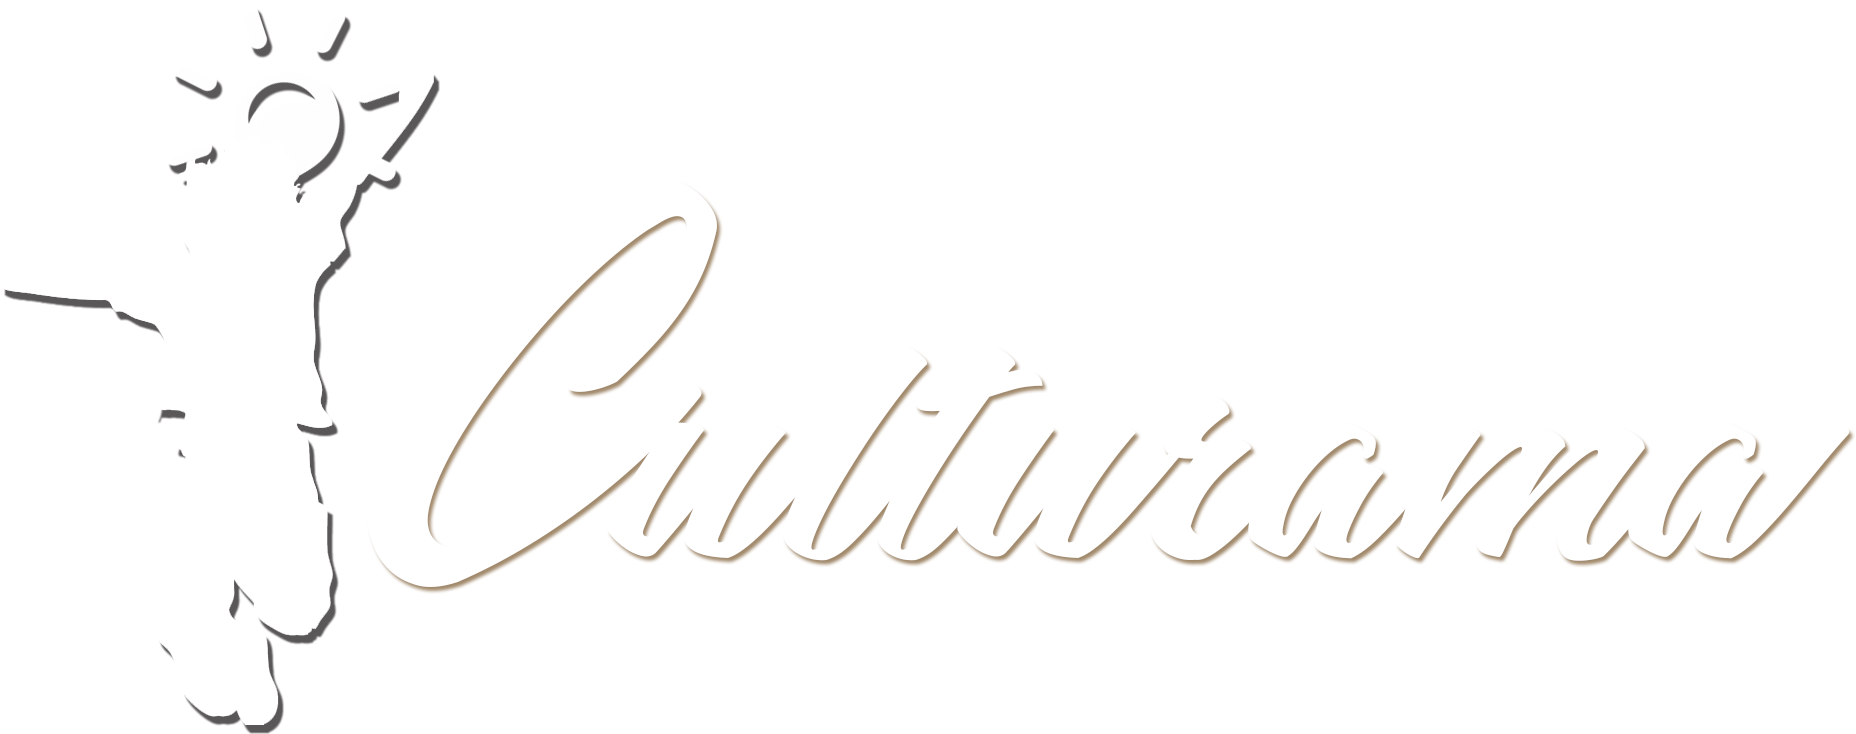
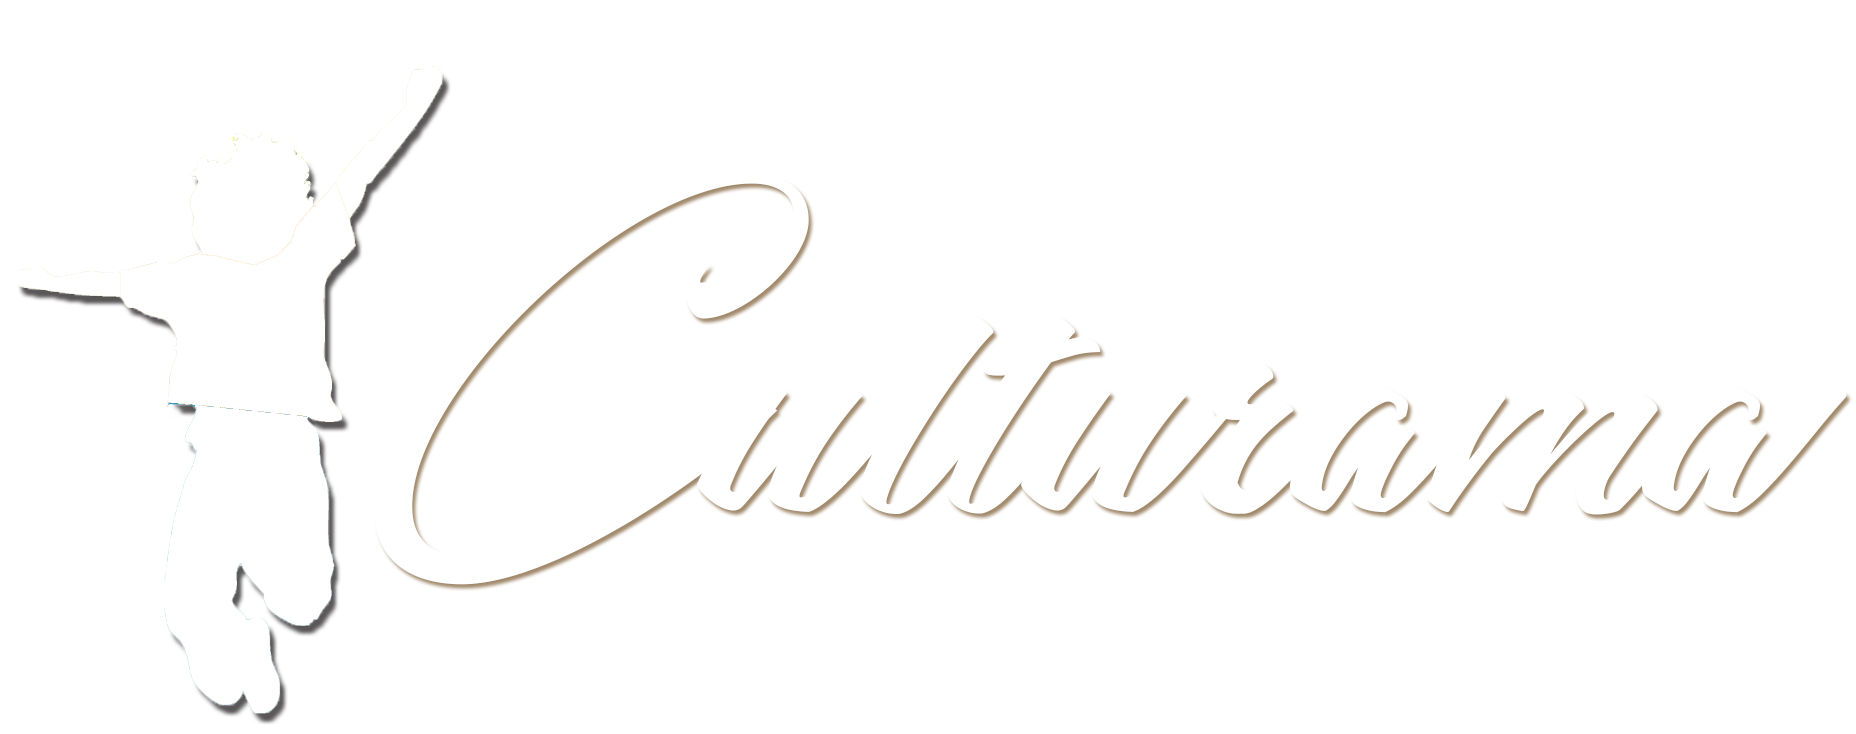
HTML changes Niko

diff --git a/pages/classRegistrationForApproval.html b/pages/classRegistrationForApproval.html
@@ -1,5 +1,5 @@
             <div>
-                <h4>Student Registration to Class for Approval</h4>
+                <h4 style="text-align: center;">Student Registration to Class for Approval</h4>
                 <table id="tblEnrollmentForApproval" class="table table1 table-hover" style="background-color: #ffffff">
                     <thead>
                     <tr>
@@ -17,8 +17,8 @@
                             <tr>
                                 <td><?= $row['class_name'] ?></td>
                                 <td><?= $row['student_name'] ?></td>
-                                <td><button type="button" onclick="grantRegistration(<?= $row['id'] ?>, <?= $row['student_id'] ?>, <?= $row['course_id'] ?>)">Accept</button></td>
-                                <td><button type="button" onclick="denyRegistration(<?= $row['id'] ?>)">Deny</button></td>
+                                <td><button class="btn" type="button" onclick="grantRegistration(<?= $row['id'] ?>, <?= $row['student_id'] ?>, <?= $row['course_id'] ?>)">Accept</button></td>
+                                <td><button class="btn" type="button" onclick="denyRegistration(<?= $row['id'] ?>)">Deny</button></td>
                             </tr>
                         <?php
                                 }

diff --git a/pages/studentSearchClasses.html b/pages/studentSearchClasses.html
@@ -62,7 +62,7 @@
                         <p style="margin-bottom: 0px;"><span id="spnStatus"></span></p>
                     </div>
 
-                    <h1 class="mt-5">Search Classes</h1>
+                    <h1 class="col-md-12" style="text-align: center;">Search Classes</h1>
 
                     <form id="formClassSearch" action="studentSearchClassesFunction.php" method="post">
                         <div class="input-group">
@@ -97,7 +97,7 @@
                                     <td><?= $row['class_name'] ?></td>
                                     <td><?= $row['class_description'] ?></td>
                                     <td><?= $row['instructor'] ?></td>
-                                    <td><button type="button" onclick="registerCourse(<?= $row['id'] ?>, 
+                                    <td><button class="btn" type="button" onclick="registerCourse(<?= $row['id'] ?>, 
                                     <?= $_SESSION['id'] ?> )">Enroll</button></td>
                                 </tr>
                             <?php

diff --git a/pages/Teacher_Topic.html b/pages/Teacher_Topic.html
@@ -74,8 +74,8 @@
                 <div class="row sm-flex-center top-space top-space1" style="border-right: none;">
                     <div class="col-sm-12">
                         <div class="panel panel-info">
-                            <h4>Topic</h4>
-                            <div class="panel-body" style="border-right: 1px solid #eee;">
+                            <h4 style="text-align: center;">Topic</h4>
+                            <div class="panel-body" >
                                 <div class="form-group has-error has-feedback">
                                     <label for="selClass" class="col-md-3 control-label">Class</label>
                                     <div class="col-md-11">
@@ -199,7 +199,7 @@
     
     <div class="footer-bottom">
         <div class="container">
-            <p class="centers" > Copyright © Culturama 2018. All right reserved. </p>
+            <p class="centers" style="color: #fff;" > Copyright © Culturama 2018. All right reserved. </p>
 
         </div>
     </div>

diff --git a/css/index/home.css b/css/index/home.css
@@ -14,15 +14,15 @@
     padding: 10px 91px 10px 91px !important;
 }
 .btn{
-    background-color: #129ed9;
+    background-color: #fba433;
     color:#fff;
-    border-color: #129ed9;
+    border-color: #fba433;
 
 }
 .btn:hover{
-    background-color: #2d7b9b;
+    background-color: #df9b42;
     color:#fff;
-    border-color: #2d7b9b;
+    border-color: #df9b42;
 
 }
 .nav-header{
@@ -190,11 +190,14 @@
     color: #EDEFF1 !important;
 }
 .footer-bottom {
-    background: #ccdc48;
+    background: #3498DB;
     border-top: 1px solid #DDDDDD;
     padding-top: 10px;
     padding-bottom: 10px;
     color:#fff;
+}
+.headfoot{
+    background-color: #3498DB !important;
 }
 .footer-bottom p.pull-left {
     padding-top: 6px;
@@ -212,9 +215,7 @@
     top: 40%;
     bottom: auto;
 }
-.headfoot{
-    background-color: #ccdc48!important;
-}
+
 .jumbotron{
     background-color: #fff;
     margin-bottom: 0rem;
@@ -231,4 +232,7 @@
 
 .btn-1{
     padding: .5rem 5rem !important;
+}
+body{
+    font-family: montserrat !important;
 }

diff --git a/css/teacherAddQuestion/new.css b/css/teacherAddQuestion/new.css
@@ -8,18 +8,15 @@
     background-color: #f3f3f3 !important;
 }
 .btn{
-    background-color: #129ed9 !important;
+    background-color: #fba433 !important ;
     color:#fff !important;
-    border-color: #129ed9;
-
+    border-color: #fba433 !important;
 
 }
 .btn:hover{
-    background-color: #2d7b9b !important;
-    border-color: #2d7b9b!important;
-    color:#f4f4f4 !important;
-
-    
+    background-color: #df9b42 !important;
+    color:#fff !important;
+    border-color: #df9b42 !important;
 
 }
 .nav-header{
@@ -35,10 +32,10 @@
     color: #444 !important;
 }
 .headfoot{
-    background-color: #ccdc48!important;
+    background-color: #3498DB!important;
 }
 .footer-bottom {
-    background: #ccdc48 !important;
+    background: #3498DB !important;
 }
 .btn-2{
     padding: .5rem 6rem !important;
@@ -48,5 +45,8 @@
 }
 .btn-1-1{
     padding: .5rem 6.8rem !important;
+}
+body{
+    font-family: montserrat !important;
 }
 

diff --git a/pages/studentTopicDetails.html b/pages/studentTopicDetails.html
@@ -53,7 +53,7 @@
             <div class="row sm-flex-center top-space">
                 <div class="col-sm-12 column-separator">
                     <div class="panel panel-info">
-                        <h4>Topic</h4>
+                        <h4 style="text-align: center;">Topic</h4>
                         <div class="panel-body" style="border-right: 1px solid #eee;">
                             <!-- <input type="hidden" id="hndTopicId" name="topicId" value="lesson_2_damit_pagkain_at_tirahan">
                             <input type="hidden" id="hndCourseCode" name="courseCode" value="AP111">
@@ -166,7 +166,7 @@
     
     <div class="footer-bottom">
         <div class="container">
-            <p class="centers" > Copyright © Culturama 2018. All right reserved. </p>
+            <p class="centers" style="color: #fff;" > Copyright © Culturama 2018. All right reserved. </p>
 
         </div>
     </div>

diff --git a/pages/index.html b/pages/index.html
@@ -30,7 +30,7 @@
 
     <body class="bkg">
     <!-- Navigation -->
-    <nav class="navbar navbar-expand-lg navbar-dark bg-dark fixed-top nav-header headfoot">
+    <nav class="navbar navbar-expand-lg navbar-dark  fixed-top nav-header headfoot">
         <div class="container">
 
                 <a class="navbar-brand nav-linkN" style="text-transform: capitalize" href="index.php"><img class="headerlogo" src="css/index/thesloghead.png"></a>
@@ -55,7 +55,7 @@
   <!-- <p class="lead">An E-Learning Web Application
  to assist educators in teaching 
 philippine Ethnic Culture.</p> --><div class="container">
-<img class="logo" src="css/index/theslog5.png" style="margin-left: 10rem;">
+<img class="logo" src="css/index/theslog7.png" style="margin-left: 10rem;">
 <p style="text-align: center;"> An E-Learning Web Application
  to assist educators in teaching 
 philippine Ethnic Culture.</p>

diff --git a/css/addVideo/new.css b/css/addVideo/new.css
@@ -8,15 +8,15 @@
     background-color: #f3f3f3 !important;
 }
 .btn{
-    background-color: #129ed9 !important;
-    color:#fff!important;
-    border-color: #129ed9;
+    background-color: #fba433 !important ;
+    color:#fff !important;
+    border-color: #fba433 !important;
 
 }
 .btn:hover{
-    background-color: #2d7b9b !important;
-    border-color: #2d7b9b!important;
-    color:#f4f4f4 !important;
+    background-color: #df9b42 !important;
+    color:#fff !important;
+    border-color: #df9b42 !important;
 
 }
 .nav-header{
@@ -32,8 +32,11 @@
     color: #444 !important;
 }
 .headfoot{
-    background-color: #ccdc48!important;
+    background-color: #3498DB!important;
 }
 .footer-bottom {
-    background: #ccdc48 !important;
+    background: #3498DB !important;
+}
+ul li ol a h1 h2 h3 h4 p{
+    font-family: Montserrat !important;
 }

diff --git a/css/login/login.css b/css/login/login.css
@@ -11,18 +11,19 @@
     background-color: #FFF;
 }
 .btn-login{
-    background-color: #129ed9;
+        background-color: #fba433;
     color:#fff;
-    border-color: #129ed9;
+    border-color: #fba433;
     margin-left: 110px !important;
     padding: 10px 91px 10px 91px !important;
 }
 .btn-login:hover{
-    background-color: #2d7b9b;
+     background-color: #df9b42;
     color:#fff;
-    border-color: #2d7b9b;
+    border-color: #df9b42;
 
 }
+
 .nav-header{
     background-color: #3a4147 !important;
     font-family: montserrat !important;
@@ -173,7 +174,7 @@
     bottom: auto;
 }
 .headfoot{
-    background-color: #ccdc48!important;
+    background-color: #3498DB!important;
 }
 .jumbotron{
 	background-color: #fff;
@@ -187,6 +188,8 @@
 .headerlogo{
     width:20%;
 }
-
+body{
+    font-family: montserrat !important;
+}
 
 

diff --git a/css/studentHomepage/new.css b/css/studentHomepage/new.css
@@ -8,15 +8,15 @@
     background-color: #f3f3f3 !important;
 }
 .btn{
-    background-color: #129ed9 !important;
-    color:#000 !important;
-    border-color: #129ed9;
+    background-color: #fba433 !important ;
+    color:#fff !important;
+    border-color: #fba433 !important;
 
 }
 .btn:hover{
-    background-color: #2d7b9b !important;
-    border-color: #2d7b9b!important;
-    color:#000 !important;
+    background-color: #df9b42 !important;
+    color:#fff !important;
+    border-color: #df9b42 !important;
 
 }
 .nav-header{
@@ -32,8 +32,11 @@
     color: #444 !important;
 }
 .headfoot{
-    background-color: #ccdc48!important;
+    background-color: #3498DB!important;
 }
 .footer-bottom {
-    background: #ccdc48 !important;
+    background: #3498DB !important;
+}
+body{
+    font-family: montserrat !important;
 }

diff --git a/css/studentSearchClasses/new.css b/css/studentSearchClasses/new.css
@@ -8,15 +8,15 @@
     background-color: #f3f3f3 !important;
 }
 .btn{
-    background-color: #129ed9 !important;
-    color:#000 !important;
-    border-color: #129ed9;
+    background-color: #fba433 !important ;
+    color:#fff !important;
+    border-color: #fba433 !important;
 
 }
 .btn:hover{
-    background-color: #2d7b9b !important;
-    border-color: #2d7b9b!important;
-    color:#000 !important;
+    background-color: #df9b42 !important;
+    color:#fff !important;
+    border-color: #df9b42 !important;
 
 }
 .nav-header{
@@ -32,8 +32,11 @@
     color: #444 !important;
 }
 .headfoot{
-    background-color: #ccdc48!important;
+    background-color: #3498DB!important;
 }
 .footer-bottom {
-    background: #ccdc48 !important;
+    background: #3498DB !important;
+}
+body{
+    font-family: montserrat !important;
 }

diff --git a/css/teacherHomepage/new.css b/css/teacherHomepage/new.css
@@ -8,15 +8,15 @@
     background-color: #f3f3f3 !important;
 }
 .btn{
-    background-color: #129ed9 !important;
-    color:#000 !important;
-    border-color: #129ed9;
+    background-color: #fba433 !important ;
+    color:#fff !important;
+    border-color: #fba433 !important;
 
 }
 .btn:hover{
-    background-color: #2d7b9b !important;
-    border-color: #2d7b9b!important;
-    color:#000 !important;
+    background-color: #df9b42 !important;
+    color:#fff !important;
+    border-color: #df9b42 !important;
 
 }
 .nav-header{
@@ -32,8 +32,11 @@
     color: #444 !important;
 }
 .headfoot{
-    background-color: #ccdc48!important;
+    background-color: #3498DB!important;
 }
 .footer-bottom {
-    background: #ccdc48 !important;
+    background: #3498DB !important;
+}
+body{
+    font-family: montserrat !important;
 }
